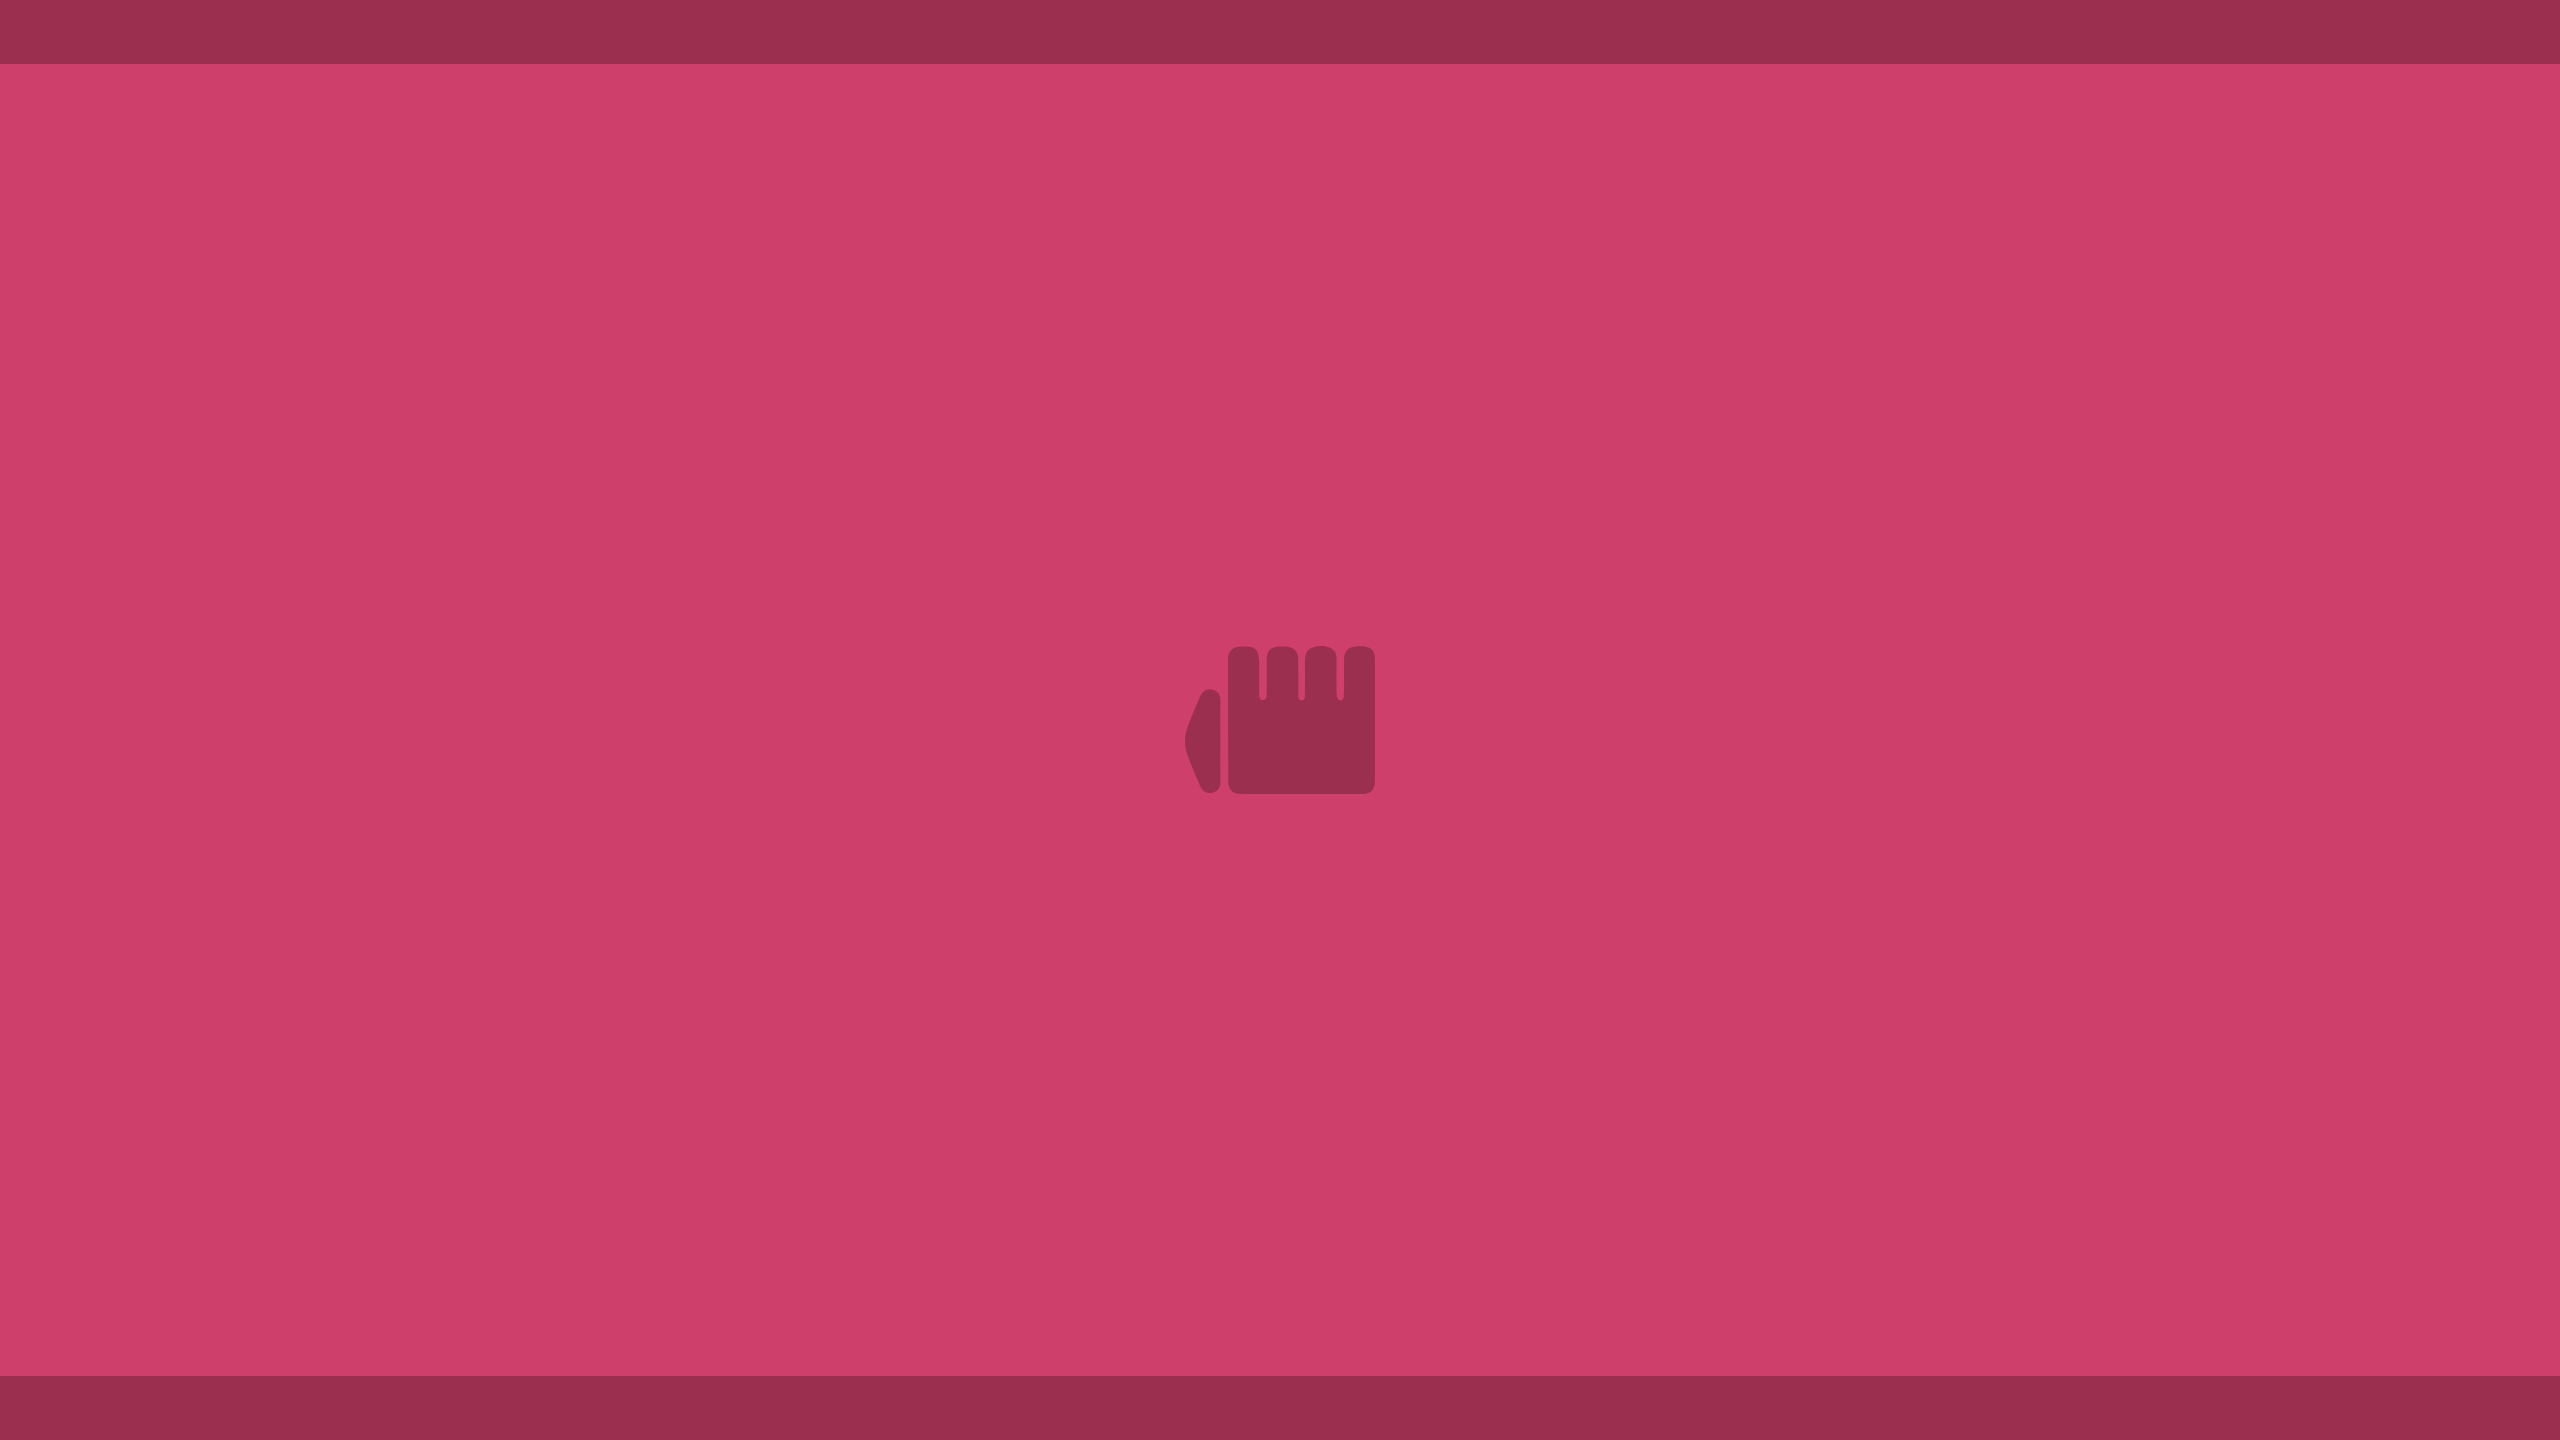
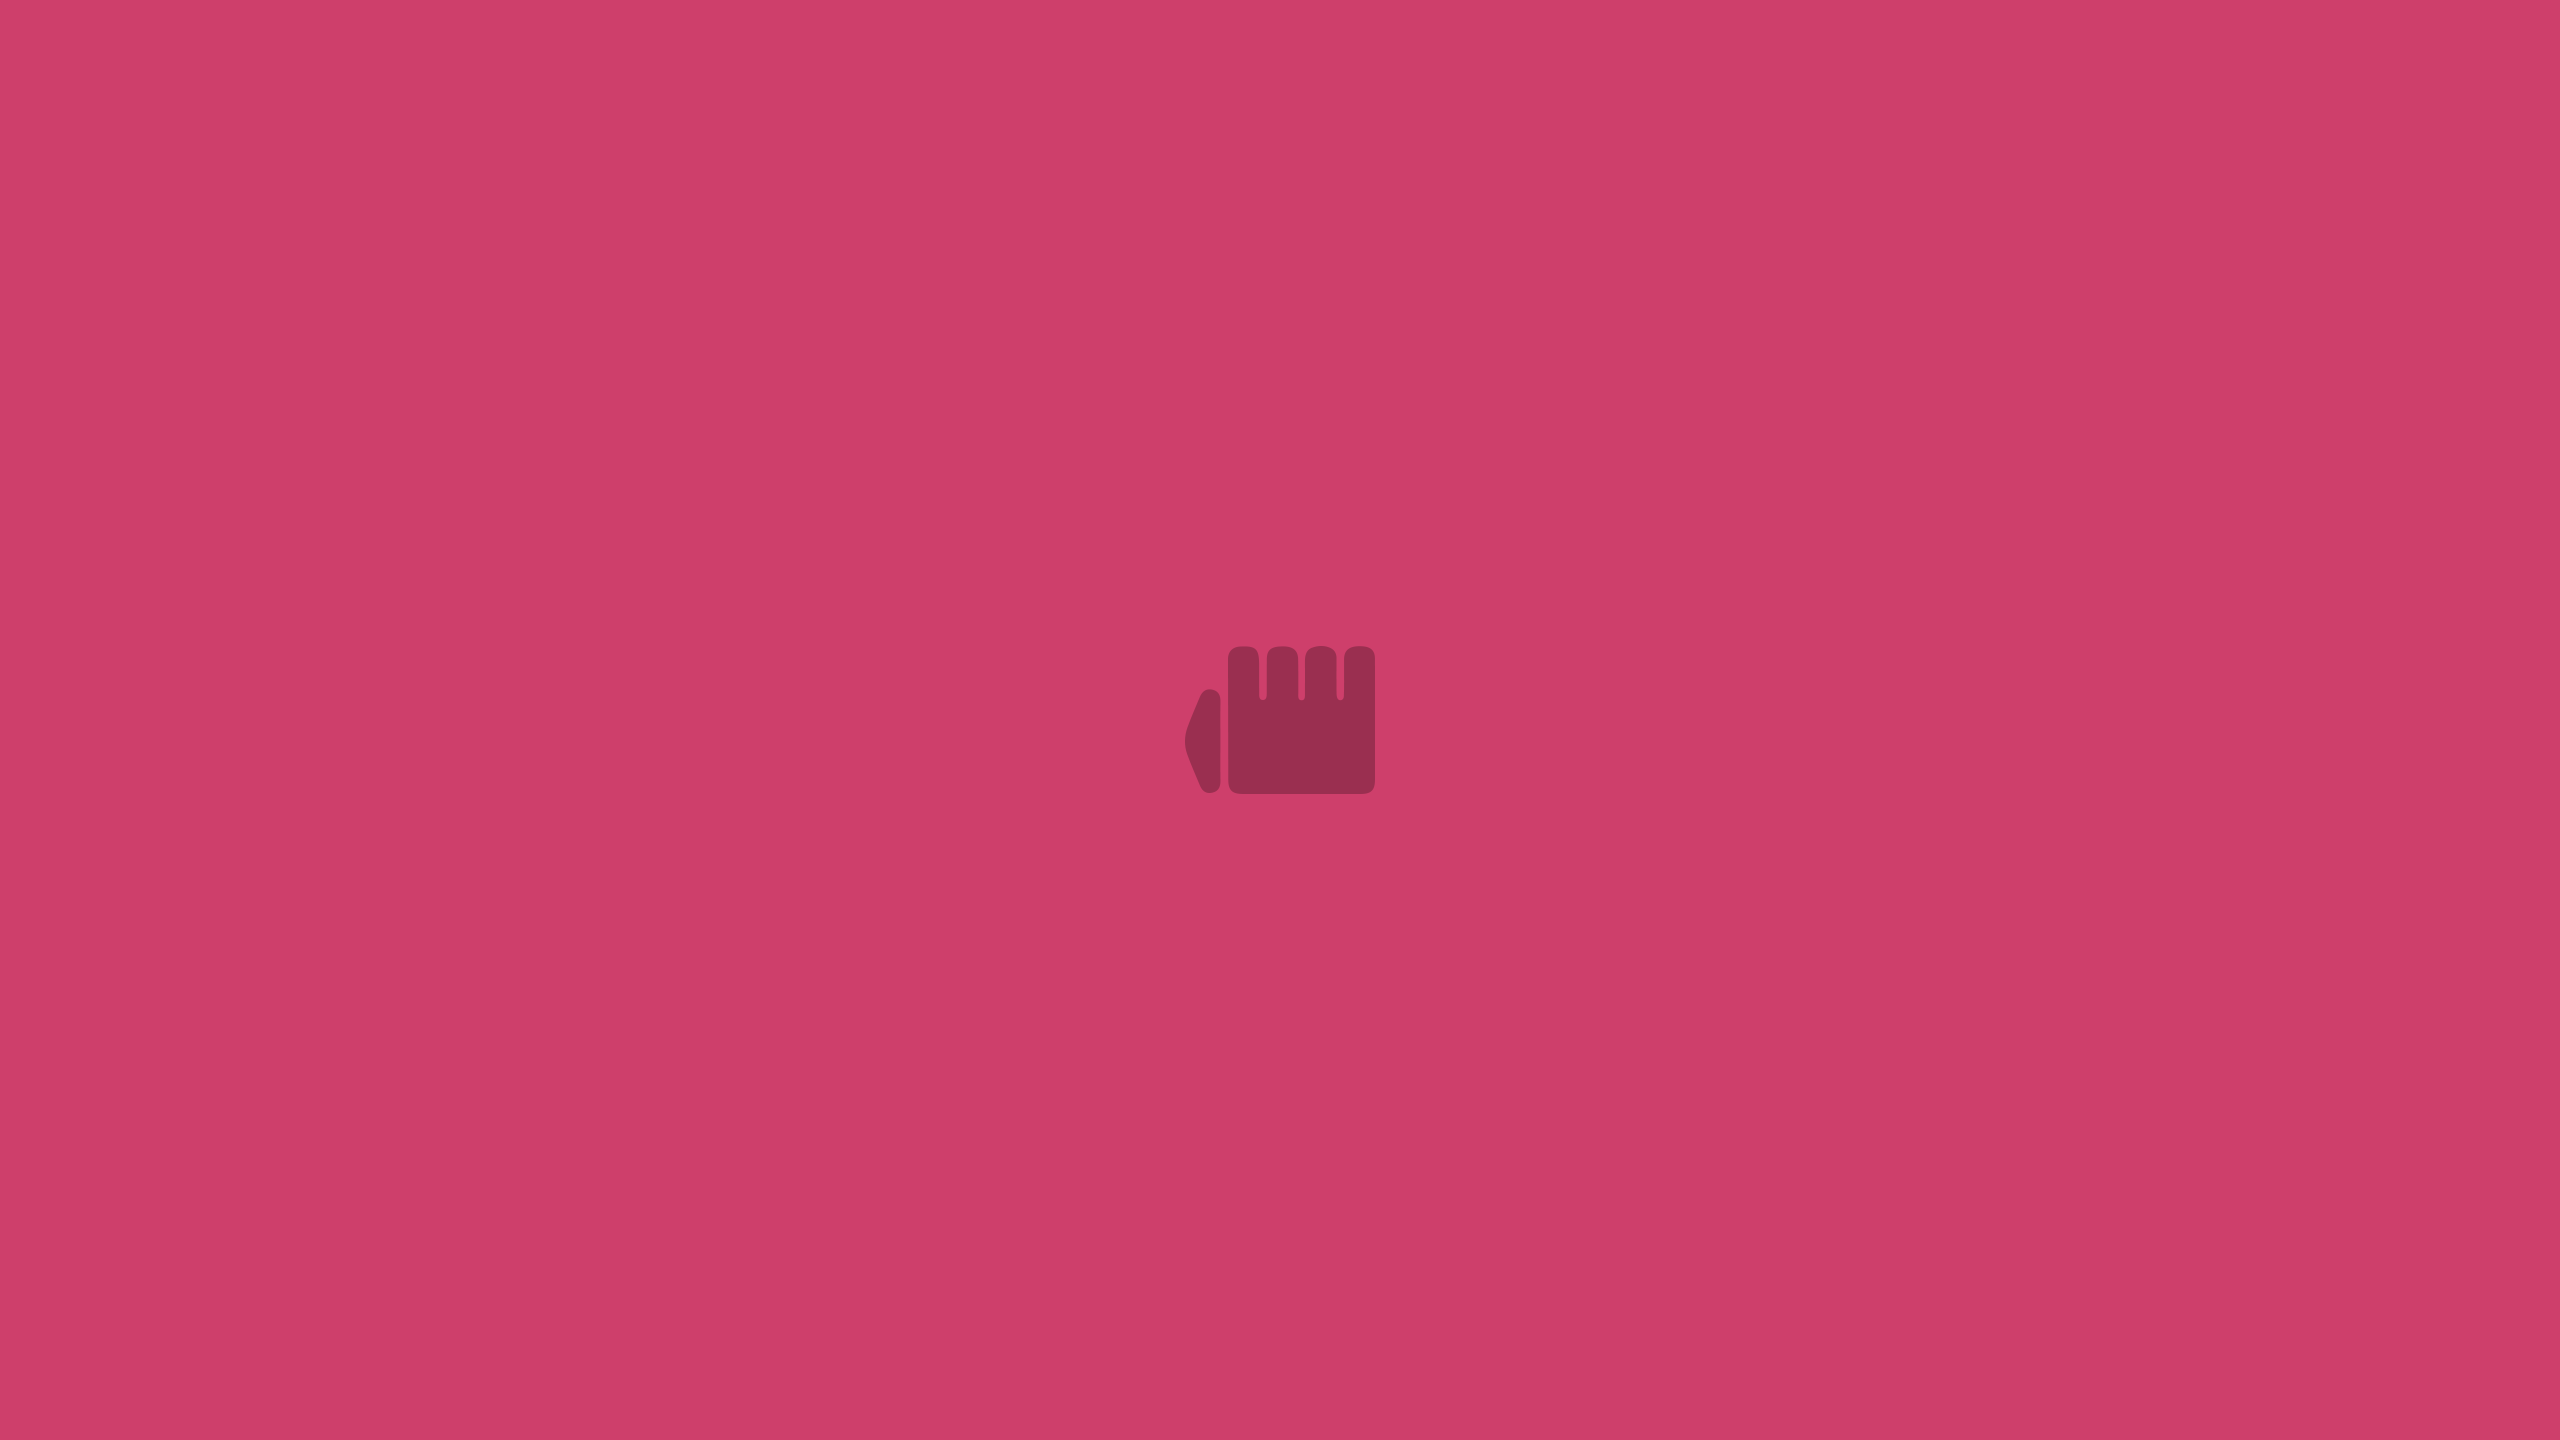
styles, background types, refactor, blurr

Changed region(s): [[0.0, 0.9375, 1.0, 1.0], [0.0, 0.0, 1.0, 0.0625]]

diff --git a/src/app/vista-pokemon/vista-pokemon.component.html b/src/app/vista-pokemon/vista-pokemon.component.html
@@ -1,9 +1,10 @@
+<div class="container" [ngStyle]="{'--background-img':'url(./assets/typesBackground/' + pokemon.types[0] + 'Background.png)'}">
 <div class="pokemon-data" id="pokemon-data">
   <div class="pokemon-image-container" (click)="changeImage()">
     <img [src]="shiny ? pokemon.imageShiny : pokemon.image" class="pokemonImage">
   </div>
   <div class="pokemon-info-container">
-    <div class="nPokedex" [ngStyle]="{'color':listaColores[pokemon.types[0]]}">Nº {{pokemon.nPokedex.toString().padStart(3,'0')}}</div>
+    <div class="nPokedex">Nº {{pokemon.nPokedex.toString().padStart(3,'0')}}</div>
     <div class="name">{{pokemon.name}}</div>
     <div class="types">
       <div class="pokemon-type" [ngStyle]="{'--type-color':listaColores[pokemon.types[0]]}">{{pokemon.types[0]}}</div>
@@ -23,31 +24,29 @@
     <div class="typesVs-container">
       <div *ngIf="veryWeak.length>0">
         x4:
-        <div class="typesVs" *ngFor="let type of veryWeak"
-          [ngStyle]="{'--type-color':listaColores[type]}">{{type}}</div>
+        <div class="typesVs" *ngFor="let type of veryWeak" [ngStyle]="{'--type-color':listaColores[type]}">{{type}}
+        </div>
       </div>
 
       <div *ngIf="weak.length>0">
         x2:
-        <div class="typesVs" *ngFor="let type of weak"
-          [ngStyle]="{'--type-color':listaColores[type]}">{{type}}</div>
+        <div class="typesVs" *ngFor="let type of weak" [ngStyle]="{'--type-color':listaColores[type]}">{{type}}</div>
       </div>
 
       <div *ngIf="x0.length>0">
         x0:
-        <div class="typesVs" *ngFor="let type of x0"
-          [ngStyle]="{'--type-color':listaColores[type]}">{{type}}</div>
+        <div class="typesVs" *ngFor="let type of x0" [ngStyle]="{'--type-color':listaColores[type]}">{{type}}</div>
       </div>
 
       <div *ngIf="strong.length>0">
         x0.5:
-        <div class="typesVs" *ngFor="let type of strong"
-          [ngStyle]="{'--type-color':listaColores[type]}">{{type}}</div>
+        <div class="typesVs" *ngFor="let type of strong" [ngStyle]="{'--type-color':listaColores[type]}">{{type}}</div>
       </div>
 
       <div *ngIf="veryStrong.length>0">
         x0.25:
-        <div class="typesVs" *ngFor="let type of veryStrong" [ngStyle]="{'--type-color':listaColores[type]}">{{type}}</div>
+        <div class="typesVs" *ngFor="let type of veryStrong" [ngStyle]="{'--type-color':listaColores[type]}">{{type}}
+        </div>
       </div>
 
     </div>
@@ -62,4 +61,6 @@
     </div>
   </div>
   <div class="bottom"></div>
+</div>
+
 </div>

diff --git a/src/app/buscador/buscador.component.css b/src/app/buscador/buscador.component.css
@@ -81,6 +81,7 @@
   text-transform: capitalize;
   /*cursor: url(../../assets/ultraball.png), auto;*/
   cursor: pointer;
+  text-shadow: 1px 1px 0 black, 1px -1px 0 black, -1px 1px 0 black, -1px -1px 0 black;
 }
 
 .type-checkbox {
@@ -100,7 +101,6 @@
   border: 2px solid var(--color);
   margin: 10px;
   border-radius: 14px;
-  text-shadow: 1px 1px black;
   width: 100%;
   height: 70%;
 
@@ -123,6 +123,7 @@
 .gen-label {
   cursor: pointer;
   text-align: center;
+  text-shadow: 1px 1px 0 black, 1px -1px 0 black, -1px 1px 0 black, -1px -1px 0 black;
 }
 
 .gen-span {
@@ -136,36 +137,11 @@
   height: 60%;
   opacity: 0.7;
   border-radius: 12px;
-}
-
-.g1 {
-  background-image: url(../../assets/genPhotos/gen1.png);
   background-size: contain;
   background-repeat: no-repeat;
   background-position: 50%;
+  background-image: var(--background-gen);
 }
-
-.g2 {
-  background-image: url(../../assets/genPhotos/gen2.png);
-  background-size: contain;
-  background-repeat: no-repeat;
-  background-position: 50%;
-}
-
-.g3 {
-  background-image: url(../../assets/genPhotos/gen3.jpg);
-  background-size: contain;
-  background-repeat: no-repeat;
-  background-position: 50%;
-}
-
-.g4 {
-  background-image: url(../../assets/genPhotos/gen4.png);
-  background-size: contain;
-  background-repeat: no-repeat;
-  background-position: 50%;
-}
-
 
 .gen-checkbox {
   display: none;

diff --git a/src/app/lista/lista.component.css b/src/app/lista/lista.component.css
@@ -2,6 +2,7 @@
   display: grid;
   grid-template-columns: repeat(5, 1fr);
   padding: 3%;
+  text-shadow: 1px 1px 0 black, 1px -1px 0 black, -1px 1px 0 black, -1px -1px 0 black;
 }
 
 @media (width < 1280px) {
@@ -36,9 +37,26 @@
 }
 
 .pokemon-card:hover {
+  border-width: 0.4em;
+  /*solid var(--type-color1);
+  border-bottom-color: var(--type-color2, var(--type-color1));
+  border-right-color: var(--type-color2, var(--type-color1));*/
+  position: relative;
+}
+
+.pokemon-card:hover:before {
+  position: absolute;
+  content: "";
+  margin: -0.25em;
+  top: 0;
+  bottom: 0;
+  left: 0;
+  right: 0;
+  border-radius: 20px;
   border: 0.4em solid var(--type-color1);
   border-bottom-color: var(--type-color2, var(--type-color1));
   border-right-color: var(--type-color2, var(--type-color1));
+  filter: blur(4px);
 }
 
 .pokemonImage {
@@ -71,7 +89,6 @@
   flex: 1;
   font-size: 1.3rem;
   text-align: center;
-  text-shadow: 1px 1px black;
   border-radius: 12px;
   background-color: var(--type-color);
 }

diff --git a/src/app/vista-pokemon/vista-pokemon.component.css b/src/app/vista-pokemon/vista-pokemon.component.css
@@ -1,9 +1,18 @@
+.container {
+  background-size: cover;
+  background-attachment: fixed;
+  background-position: center center;
+  height: 100%;
+  background-image: var(--background-img);
+}
+
 .pokemon-data {
   display: grid;
   grid-template-columns: 3fr 8fr;
   gap: 1em;
   visibility: hidden;
   padding: 2%;
+  text-shadow: 1px 1px 0 black, 1px -1px 0 black, -1px 1px 0 black, -1px -1px 0 black;
 }
 
 .pokemon-info-container {
@@ -54,10 +63,10 @@
 }
 
 .pokemon-type {
+  border: 1px solid black;
   min-width: 20%;
   font-size: 1.3rem;
   text-align: center;
-  text-shadow: 1px 1px black;
   border-radius: 12px;
   background-color: var(--type-color);
 }
@@ -114,7 +123,7 @@
 }
 
 .typesVs {
-  text-shadow: 1px 1px black;
+  border: 1px solid black;
   margin-top: 7%;
   padding: 3%;
   background-color: var(--type-color);

diff --git a/src/app/buscador/buscador.component.html b/src/app/buscador/buscador.component.html
@@ -10,7 +10,7 @@
     <label *ngFor="let gen of gensSelected" class="gen-label">
       Generation {{gen.gen}}
       <input type="checkbox" class="gen-checkbox" (change)="enviaGen()" [(ngModel)]="gen.isChecked">
-      <span class="gen-span g{{gen.gen}}"></span>
+      <span class="gen-span" [ngStyle]="{'--background-gen': 'url(./assets/genPhotos/gen' + gen.gen + '.png)'}"></span>
     </label>
 
   </div>
@@ -25,4 +25,3 @@
   </div>
 
 </div>
-

diff --git a/src/app/pokeapi.service.ts b/src/app/pokeapi.service.ts
@@ -66,7 +66,7 @@ export class PokeapiService {
     return this.http.get('https://pokeapi.co/api/v2/pokemon-species/' + id).pipe(
       map((data: any) => {
         const flavorTextEntry = data.flavor_text_entries.find((entry: any) => {
-          return entry.language.name === 'en' && entry.version.name === 'platinum';
+          return entry.language.name === 'en' && entry.version.name === 'x';
         });
 
         if (flavorTextEntry) {

diff --git a/src/styles.css b/src/styles.css
@@ -7,6 +7,14 @@ html {
 }
 
 body {
+  height: 100vh;
   background-color: rgb(47, 45, 45);
-  color: white;
+  color: rgb(255, 255, 255);
+  margin: 0;
+  padding: 0;
+}
+
+:root {
+  --background-img: url(./assets/typesBackground/bugBackground.png);
+  --background-gen: url(./assets/genPhotos/gen2.png);
 }

diff --git a/src/app/app.component.html b/src/app/app.component.html
@@ -1,1 +1,1 @@
-<router-outlet>
+<router-outlet></router-outlet>
